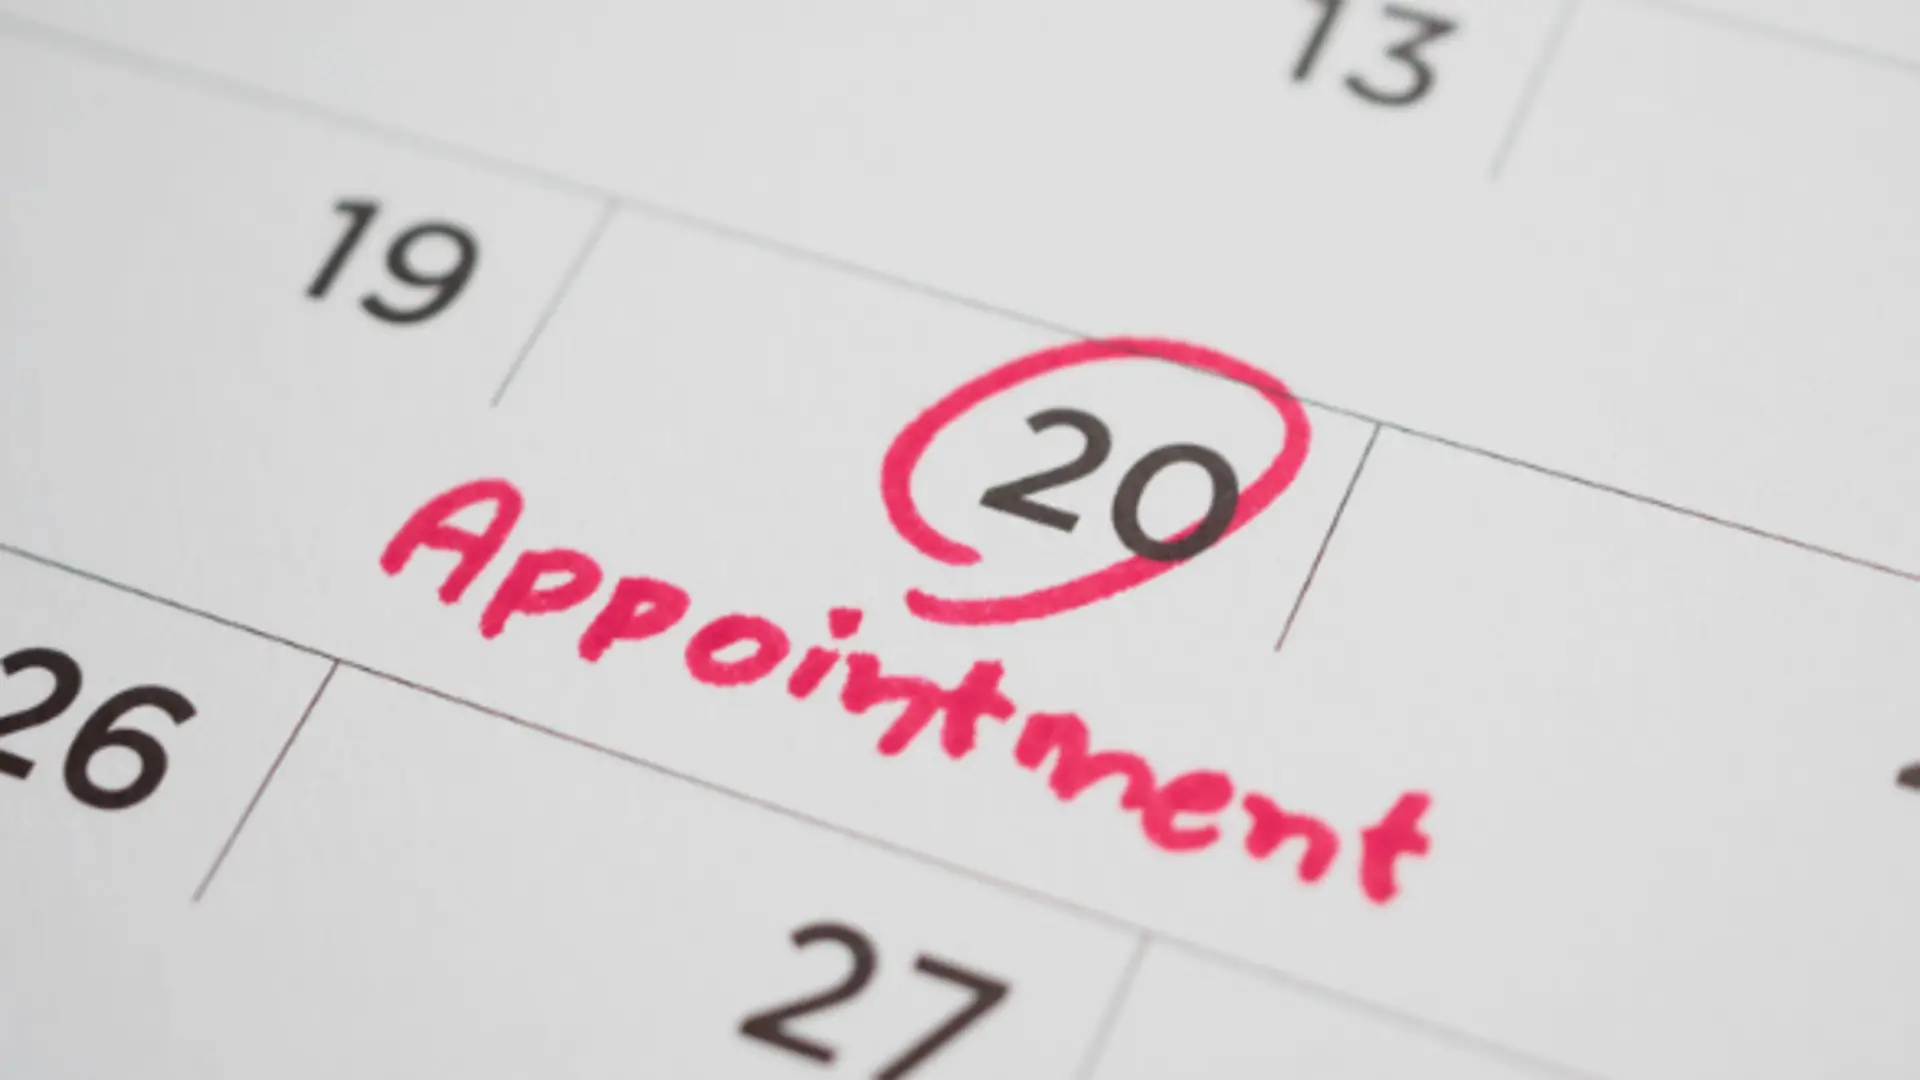
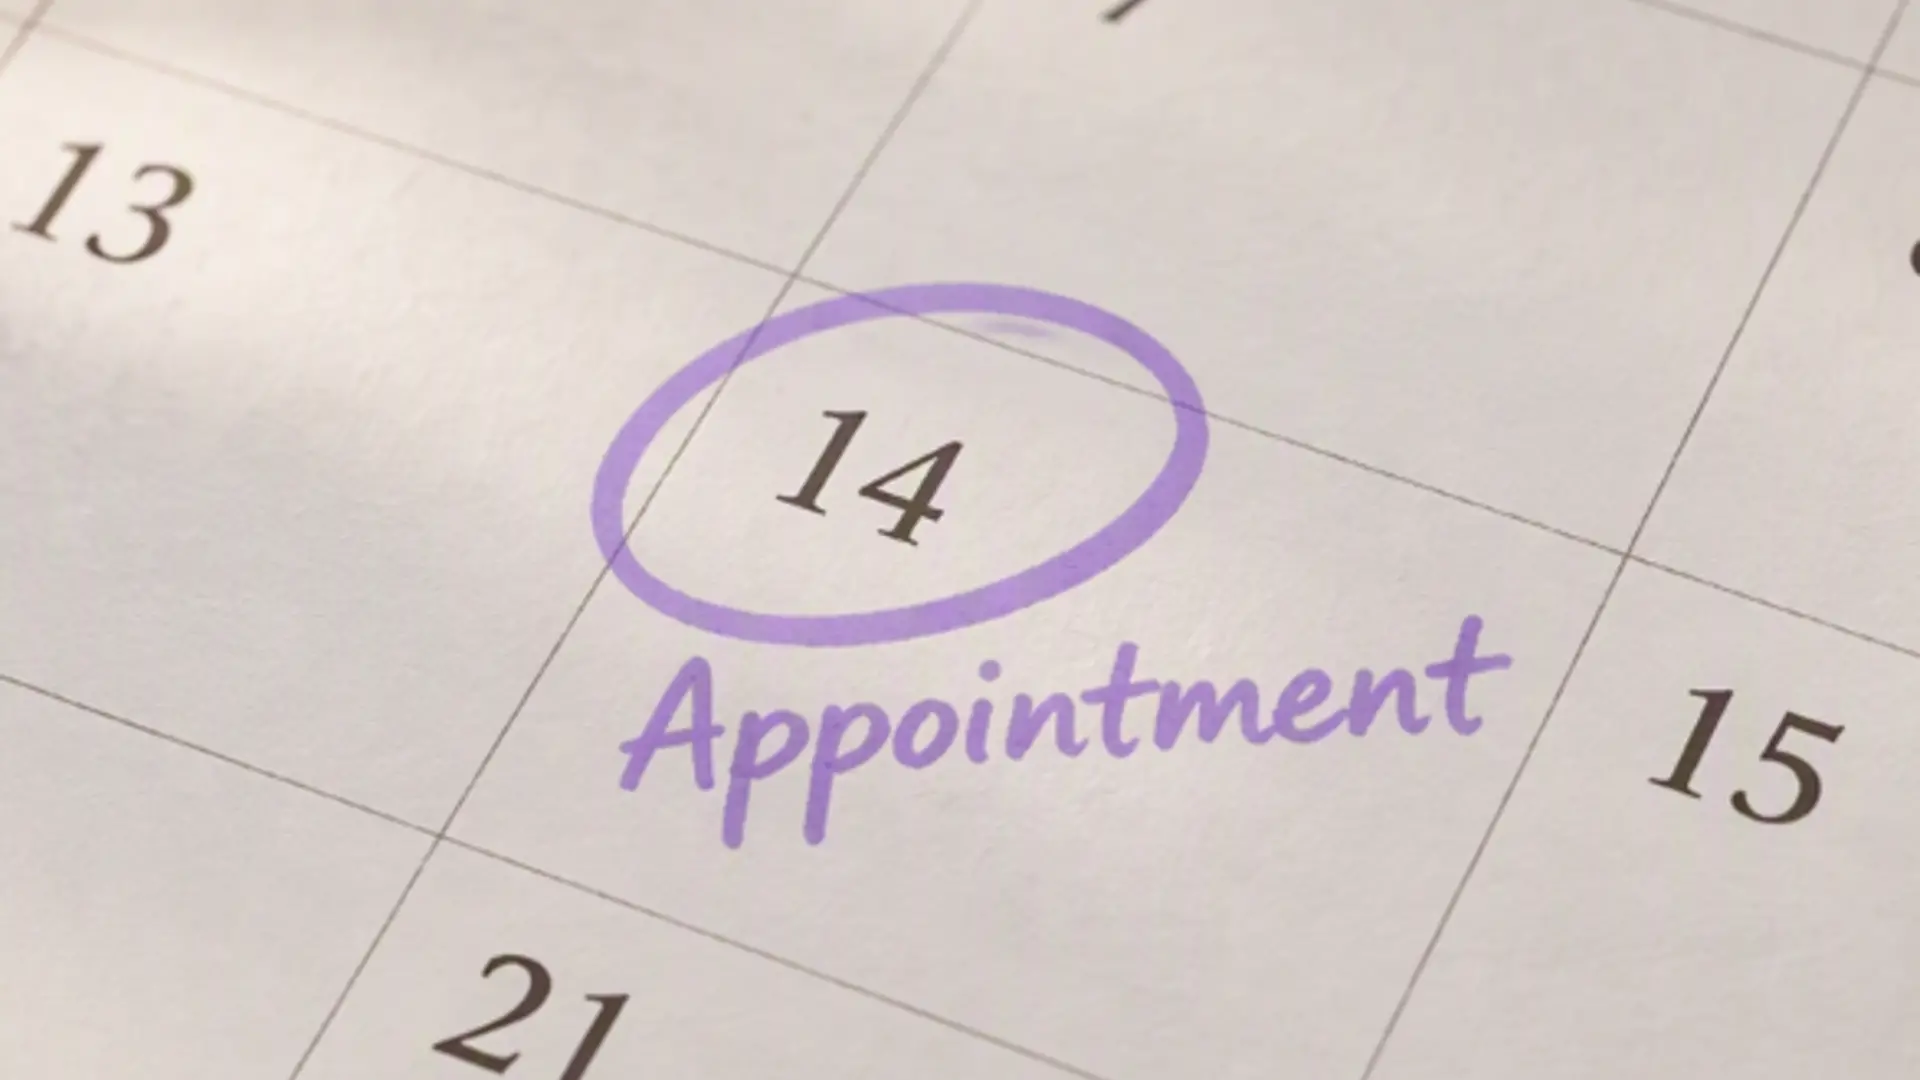
Update "What to Expect" blog image to the edited version
The calendar image now has a lavender marker; alt text updated to
match.

diff --git a/lib/blog-posts.ts b/lib/blog-posts.ts
@@ -21,7 +21,7 @@ export const blogPosts: BlogPost[] = [
     slug: 'what-to-expect-first-appointment',
     image: {
       src: '/images/what-to-expect-at-your-first-appointment.webp',
-      alt: 'A calendar with an appointment circled in pink marker',
+      alt: 'A calendar with an appointment circled in lavender marker',
       width: 1920,
       height: 1080,
     },
